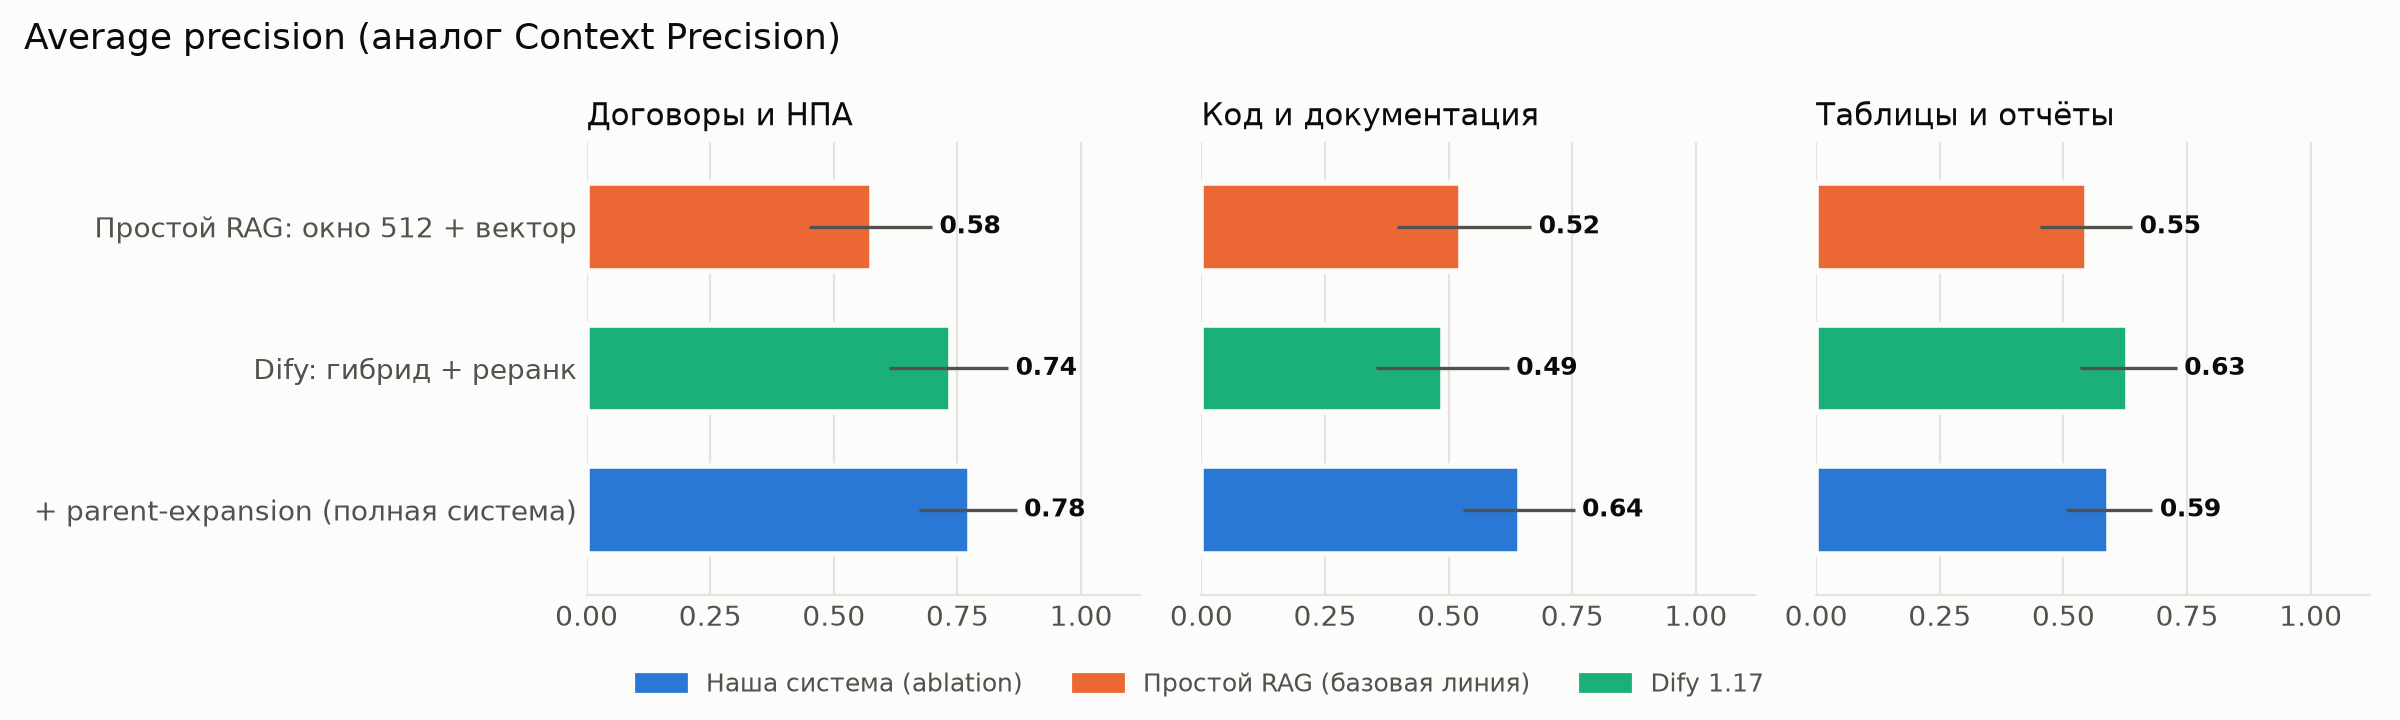
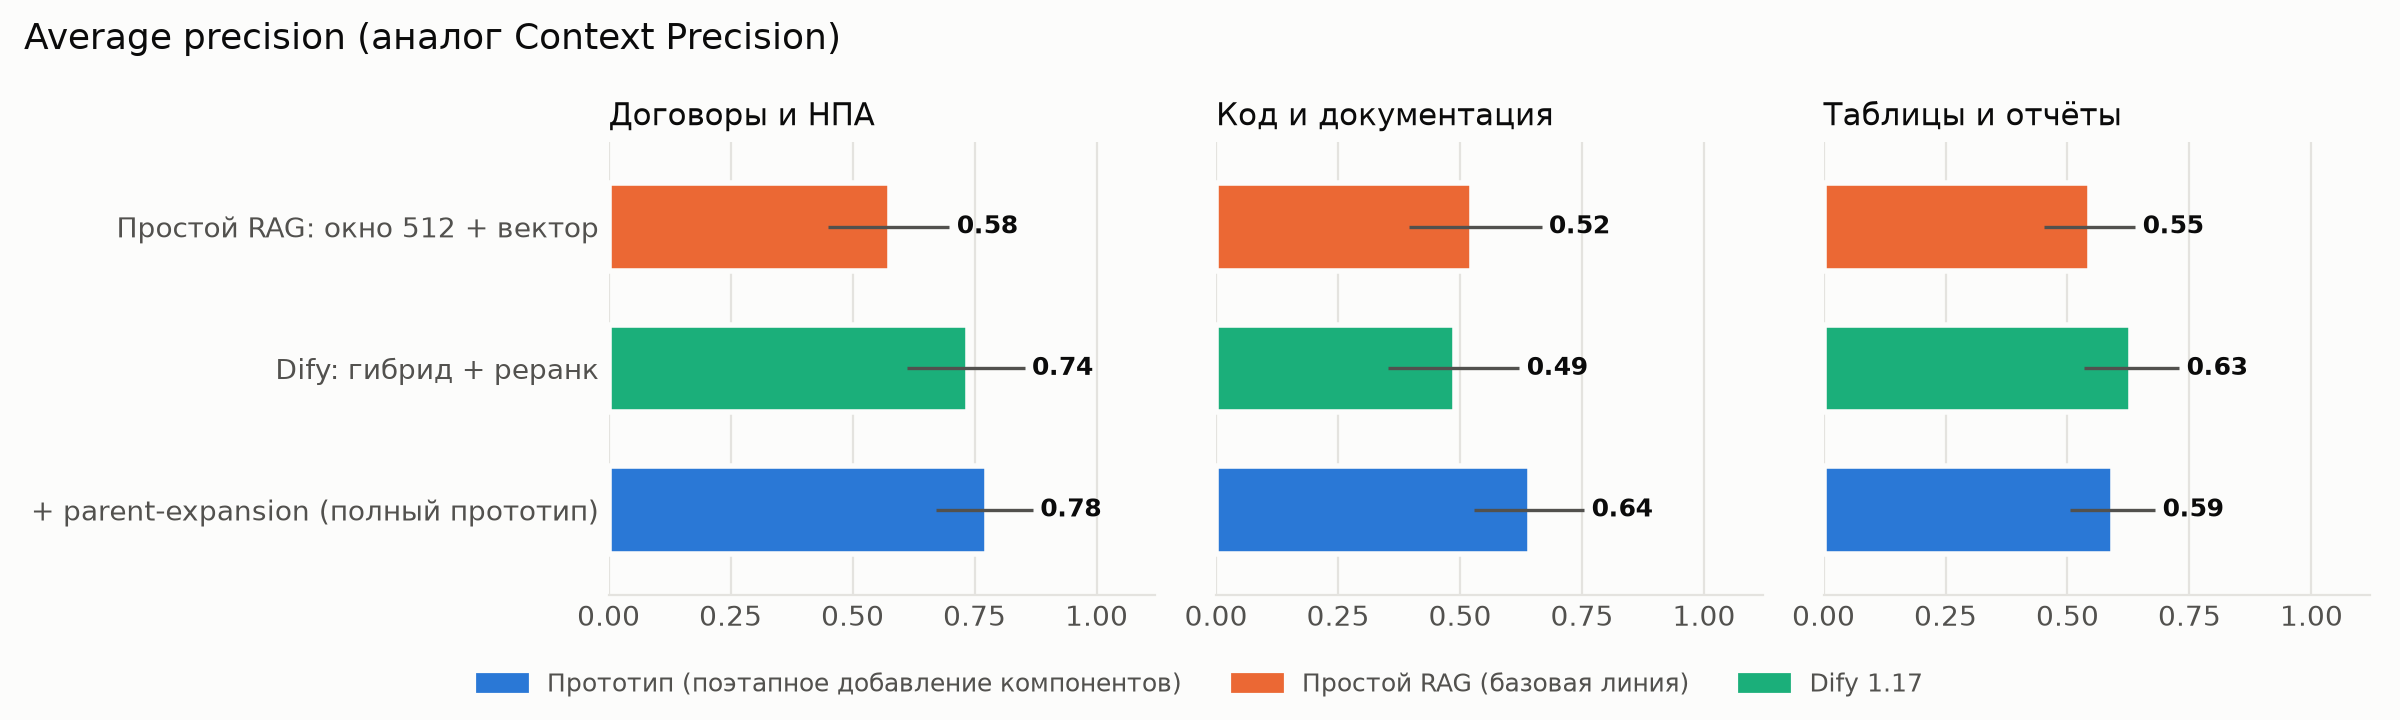
Rename system labels to 'Прототип'; drop unfair Dify bars from full-set figures

diff --git a/benchmarks/plots.py b/benchmarks/plots.py
@@ -32,10 +32,10 @@ CONFIGS: list[tuple[str, str, str, str]] = [
     ('naive', 'hybrid', 'Окно 512 + вектор + FTS', 'naive'),
     ('dify', 'dify_vector', 'Dify: вектор', 'dify'),
     ('dify', 'dify_hybrid_rerank', 'Dify: гибрид + реранк', 'dify'),
-    ('domain', 'vector', 'Наши чанкеры + вектор', 'ours'),
+    ('domain', 'vector', 'Прототип: чанкеры + вектор', 'ours'),
     ('domain', 'hybrid', '+ FTS (RRF)', 'ours'),
     ('domain', 'hybrid_rerank', '+ cross-encoder реранк', 'ours'),
-    ('domain', 'full', '+ parent-expansion (полная система)', 'ours'),
+    ('domain', 'full', '+ parent-expansion (полный прототип)', 'ours'),
 ]
 DOMAIN_TITLES = {
     'all': 'Все домены',
@@ -59,7 +59,7 @@ KEY_CONFIGS = {
     ('domain', 'full'),
 }
 LEGEND = {
-    'ours': 'Наша система (ablation)',
+    'ours': 'Прототип (поэтапное добавление компонентов)',
     'naive': 'Простой RAG (базовая линия)',
     'dify': 'Dify 1.17',
 }
@@ -196,10 +196,16 @@ def figure_domains(data: dict[tuple[str, str, str, str], Row], metric: str, path
 
 
 def main(results_dir: Path = RESULTS_DIR) -> None:
-    """Строит все графики по сводкам из `results_dir` в `results_dir/figures`."""
+    """Строит все графики по сводкам из `results_dir` в `results_dir/figures`.
+
+    На полном наборе (`results/`) Dify не показывается: его индекс неполон (179 из 206
+    документов) и бюджет контекста меньше, сравнение с ним — в `dify_subset/` и `equal_budget/`.
+    """
     figures = results_dir / 'figures'
     figures.mkdir(parents=True, exist_ok=True)
     data = load_summary(results_dir)
+    if results_dir == RESULTS_DIR:
+        data = {k: v for k, v in data.items() if k[0] != 'dify'}
     for metric in ('evidence_recall', 'mrr', 'ap'):
         figure_ablation(data, metric, figures / f'ablation_{metric}.png')
         figure_domains(data, metric, figures / f'domains_{metric}.png')
@@ -219,8 +225,8 @@ def figure_budget(csv_path: Path, path: Path, domain: str = 'all') -> None:
     series = [
         ('Простой RAG', COLORS['naive'], '-'),
         ('Dify top-24: гибрид + реранк', COLORS['dify'], '-'),
-        ('Наша: чанкеры + гибрид + реранк', COLORS['ours'], '--'),
-        ('Наша: полная (parent-expansion)', COLORS['ours'], '-'),
+        ('Прототип: чанкеры + гибрид + реранк', COLORS['ours'], '--'),
+        ('Полный прототип (parent-expansion)', COLORS['ours'], '-'),
     ]
     rows: dict[str, list[tuple[int, float, float, float]]] = {}
     with csv_path.open(encoding='utf-8') as f:

diff --git a/benchmarks/paired_diff.py b/benchmarks/paired_diff.py
@@ -23,8 +23,8 @@ ITERATIONS = 5000
 # (прогон, конфигурация, подпись): наши конфигурации против лучшей конфигурации Dify.
 BASELINE = ('dify_top24', 'dify_hybrid_rerank', 'Dify top-24: гибрид + реранк')
 CANDIDATES = (
-    ('domain', 'hybrid_rerank', 'Наша: чанкеры + гибрид + реранк'),
-    ('domain', 'full', 'Наша: полная (parent-expansion)'),
+    ('domain', 'hybrid_rerank', 'Прототип: чанкеры + гибрид + реранк'),
+    ('domain', 'full', 'Полный прототип (parent-expansion)'),
     ('naive', 'vector', 'Простой RAG'),
 )
 

diff --git a/benchmarks/budget_recall.py b/benchmarks/budget_recall.py
@@ -28,8 +28,8 @@ SYSTEMS = (
     ('dify', 'dify_hybrid_rerank', 'Dify: гибрид + реранк'),
     ('dify_top24', 'dify_vector', 'Dify top-24: вектор'),
     ('dify_top24', 'dify_hybrid_rerank', 'Dify top-24: гибрид + реранк'),
-    ('domain', 'hybrid_rerank', 'Наша: чанкеры + гибрид + реранк'),
-    ('domain', 'full', 'Наша: полная (parent-expansion)'),
+    ('domain', 'hybrid_rerank', 'Прототип: чанкеры + гибрид + реранк'),
+    ('domain', 'full', 'Полный прототип (parent-expansion)'),
 )
 
 

diff --git a/benchmarks/results/equal_budget/budget_recall.md b/benchmarks/results/equal_budget/budget_recall.md
@@ -11,8 +11,8 @@
 | Dify: гибрид + реранк | 0.665 [0.60–0.73] | 0.716 [0.65–0.78] | 0.730 [0.66–0.79] | 0.730 [0.66–0.79] | 0.730 [0.66–0.79] |
 | Dify top-24: вектор | 0.600 [0.53–0.67] | 0.712 [0.64–0.78] | 0.761 [0.69–0.82] | 0.793 [0.73–0.85] | 0.807 [0.75–0.86] |
 | Dify top-24: гибрид + реранк | 0.680 [0.61–0.75] | 0.762 [0.70–0.82] | 0.804 [0.74–0.86] | 0.825 [0.77–0.88] | 0.840 [0.78–0.89] |
-| Наша: чанкеры + гибрид + реранк | 0.568 [0.49–0.65] | 0.734 [0.67–0.80] | 0.793 [0.73–0.85] | 0.846 [0.79–0.90] | 0.846 [0.79–0.90] |
-| Наша: полная (parent-expansion) | 0.466 [0.39–0.54] | 0.660 [0.58–0.73] | 0.751 [0.68–0.82] | 0.839 [0.78–0.89] | 0.885 [0.83–0.93] |
+| Прототип: чанкеры + гибрид + реранк | 0.568 [0.49–0.65] | 0.734 [0.67–0.80] | 0.793 [0.73–0.85] | 0.846 [0.79–0.90] | 0.846 [0.79–0.90] |
+| Полный прототип (parent-expansion) | 0.466 [0.39–0.54] | 0.660 [0.58–0.73] | 0.751 [0.68–0.82] | 0.839 [0.78–0.89] | 0.885 [0.83–0.93] |
 
 ## contracts
 
@@ -23,8 +23,8 @@
 | Dify: гибрид + реранк | 0.750 [0.62–0.87] | 0.750 [0.62–0.87] | 0.750 [0.62–0.87] | 0.750 [0.62–0.87] | 0.750 [0.62–0.87] |
 | Dify top-24: вектор | 0.669 [0.53–0.79] | 0.797 [0.67–0.90] | 0.843 [0.73–0.94] | 0.843 [0.73–0.94] | 0.843 [0.73–0.94] |
 | Dify top-24: гибрид + реранк | 0.785 [0.66–0.89] | 0.843 [0.74–0.93] | 0.866 [0.76–0.95] | 0.866 [0.76–0.95] | 0.866 [0.76–0.95] |
-| Наша: чанкеры + гибрид + реранк | 0.674 [0.55–0.79] | 0.791 [0.67–0.90] | 0.849 [0.74–0.94] | 0.884 [0.79–0.97] | 0.884 [0.79–0.97] |
-| Наша: полная (parent-expansion) | 0.395 [0.27–0.52] | 0.593 [0.45–0.73] | 0.767 [0.64–0.87] | 0.930 [0.84–1.00] | 0.953 [0.88–1.00] |
+| Прототип: чанкеры + гибрид + реранк | 0.674 [0.55–0.79] | 0.791 [0.67–0.90] | 0.849 [0.74–0.94] | 0.884 [0.79–0.97] | 0.884 [0.79–0.97] |
+| Полный прототип (parent-expansion) | 0.395 [0.27–0.52] | 0.593 [0.45–0.73] | 0.767 [0.64–0.87] | 0.930 [0.84–1.00] | 0.953 [0.88–1.00] |
 
 ## code
 
@@ -35,8 +35,8 @@
 | Dify: гибрид + реранк | 0.567 [0.41–0.72] | 0.662 [0.52–0.80] | 0.662 [0.52–0.80] | 0.662 [0.52–0.80] | 0.662 [0.52–0.80] |
 | Dify top-24: вектор | 0.571 [0.43–0.73] | 0.676 [0.53–0.81] | 0.743 [0.61–0.87] | 0.743 [0.61–0.87] | 0.743 [0.61–0.87] |
 | Dify top-24: гибрид + реранк | 0.557 [0.42–0.70] | 0.705 [0.58–0.83] | 0.748 [0.62–0.87] | 0.748 [0.62–0.87] | 0.748 [0.62–0.87] |
-| Наша: чанкеры + гибрид + реранк | 0.652 [0.49–0.80] | 0.762 [0.64–0.88] | 0.814 [0.69–0.93] | 0.829 [0.70–0.94] | 0.829 [0.70–0.94] |
-| Наша: полная (parent-expansion) | 0.581 [0.42–0.73] | 0.690 [0.55–0.83] | 0.743 [0.60–0.87] | 0.771 [0.64–0.89] | 0.900 [0.80–0.99] |
+| Прототип: чанкеры + гибрид + реранк | 0.652 [0.49–0.80] | 0.762 [0.64–0.88] | 0.814 [0.69–0.93] | 0.829 [0.70–0.94] | 0.829 [0.70–0.94] |
+| Полный прототип (parent-expansion) | 0.581 [0.42–0.73] | 0.690 [0.55–0.83] | 0.743 [0.60–0.87] | 0.771 [0.64–0.89] | 0.900 [0.80–0.99] |
 
 ## tables
 
@@ -47,5 +47,5 @@
 | Dify: гибрид + реранк | 0.661 [0.56–0.76] | 0.723 [0.62–0.82] | 0.755 [0.66–0.85] | 0.755 [0.66–0.85] | 0.755 [0.66–0.85] |
 | Dify top-24: вектор | 0.570 [0.46–0.67] | 0.674 [0.56–0.78] | 0.716 [0.61–0.82] | 0.786 [0.69–0.88] | 0.817 [0.72–0.90] |
 | Dify top-24: гибрид + реранк | 0.677 [0.57–0.78] | 0.739 [0.64–0.84] | 0.794 [0.70–0.88] | 0.841 [0.76–0.92] | 0.872 [0.80–0.94] |
-| Наша: чанкеры + гибрид + реранк | 0.451 [0.34–0.57] | 0.681 [0.57–0.79] | 0.744 [0.64–0.84] | 0.830 [0.74–0.91] | 0.830 [0.74–0.91] |
-| Наша: полная (parent-expansion) | 0.451 [0.34–0.57] | 0.689 [0.59–0.79] | 0.744 [0.64–0.84] | 0.814 [0.72–0.90] | 0.830 [0.74–0.91] |
+| Прототип: чанкеры + гибрид + реранк | 0.451 [0.34–0.57] | 0.681 [0.57–0.79] | 0.744 [0.64–0.84] | 0.830 [0.74–0.91] | 0.830 [0.74–0.91] |
+| Полный прототип (parent-expansion) | 0.451 [0.34–0.57] | 0.689 [0.59–0.79] | 0.744 [0.64–0.84] | 0.814 [0.72–0.90] | 0.830 [0.74–0.91] |

diff --git a/benchmarks/results/dify_subset/budget_recall.md b/benchmarks/results/dify_subset/budget_recall.md
@@ -9,8 +9,8 @@
 | Простой RAG | 0.374 [0.30–0.45] | 0.552 [0.47–0.63] | 0.654 [0.58–0.73] | 0.773 [0.71–0.83] |
 | Dify: вектор | 0.583 [0.51–0.66] | 0.669 [0.60–0.74] | 0.682 [0.61–0.75] | 0.682 [0.61–0.75] |
 | Dify: гибрид + реранк | 0.665 [0.60–0.73] | 0.716 [0.65–0.78] | 0.730 [0.66–0.79] | 0.730 [0.66–0.79] |
-| Наша: чанкеры + гибрид + реранк | 0.568 [0.49–0.65] | 0.734 [0.67–0.80] | 0.793 [0.73–0.85] | 0.846 [0.79–0.90] |
-| Наша: полная (parent-expansion) | 0.466 [0.39–0.54] | 0.660 [0.58–0.73] | 0.751 [0.68–0.82] | 0.839 [0.78–0.89] |
+| Прототип: чанкеры + гибрид + реранк | 0.568 [0.49–0.65] | 0.734 [0.67–0.80] | 0.793 [0.73–0.85] | 0.846 [0.79–0.90] |
+| Полный прототип (parent-expansion) | 0.466 [0.39–0.54] | 0.660 [0.58–0.73] | 0.751 [0.68–0.82] | 0.839 [0.78–0.89] |
 
 ## contracts
 
@@ -19,8 +19,8 @@
 | Простой RAG | 0.430 [0.29–0.57] | 0.547 [0.40–0.69] | 0.616 [0.47–0.76] | 0.802 [0.69–0.91] |
 | Dify: вектор | 0.669 [0.53–0.79] | 0.738 [0.60–0.86] | 0.738 [0.60–0.86] | 0.738 [0.60–0.86] |
 | Dify: гибрид + реранк | 0.750 [0.62–0.87] | 0.750 [0.62–0.87] | 0.750 [0.62–0.87] | 0.750 [0.62–0.87] |
-| Наша: чанкеры + гибрид + реранк | 0.674 [0.55–0.79] | 0.791 [0.67–0.90] | 0.849 [0.74–0.94] | 0.884 [0.79–0.97] |
-| Наша: полная (parent-expansion) | 0.395 [0.27–0.52] | 0.593 [0.45–0.73] | 0.767 [0.64–0.87] | 0.930 [0.84–1.00] |
+| Прототип: чанкеры + гибрид + реранк | 0.674 [0.55–0.79] | 0.791 [0.67–0.90] | 0.849 [0.74–0.94] | 0.884 [0.79–0.97] |
+| Полный прототип (parent-expansion) | 0.395 [0.27–0.52] | 0.593 [0.45–0.73] | 0.767 [0.64–0.87] | 0.930 [0.84–1.00] |
 
 ## code
 
@@ -29,8 +29,8 @@
 | Простой RAG | 0.338 [0.20–0.50] | 0.514 [0.36–0.67] | 0.629 [0.49–0.77] | 0.729 [0.59–0.86] |
 | Dify: вектор | 0.571 [0.43–0.73] | 0.648 [0.50–0.79] | 0.648 [0.50–0.79] | 0.648 [0.50–0.79] |
 | Dify: гибрид + реранк | 0.567 [0.41–0.72] | 0.662 [0.52–0.80] | 0.662 [0.52–0.80] | 0.662 [0.52–0.80] |
-| Наша: чанкеры + гибрид + реранк | 0.652 [0.49–0.80] | 0.762 [0.64–0.88] | 0.814 [0.69–0.93] | 0.829 [0.70–0.94] |
-| Наша: полная (parent-expansion) | 0.581 [0.42–0.73] | 0.690 [0.55–0.83] | 0.743 [0.60–0.87] | 0.771 [0.64–0.89] |
+| Прототип: чанкеры + гибрид + реранк | 0.652 [0.49–0.80] | 0.762 [0.64–0.88] | 0.814 [0.69–0.93] | 0.829 [0.70–0.94] |
+| Полный прототип (parent-expansion) | 0.581 [0.42–0.73] | 0.690 [0.55–0.83] | 0.743 [0.60–0.87] | 0.771 [0.64–0.89] |
 
 ## tables
 
@@ -39,5 +39,5 @@
 | Простой RAG | 0.357 [0.25–0.47] | 0.576 [0.46–0.69] | 0.693 [0.58–0.80] | 0.779 [0.68–0.88] |
 | Dify: вектор | 0.531 [0.42–0.64] | 0.635 [0.52–0.74] | 0.664 [0.55–0.77] | 0.664 [0.55–0.77] |
 | Dify: гибрид + реранк | 0.661 [0.56–0.76] | 0.723 [0.62–0.82] | 0.755 [0.66–0.85] | 0.755 [0.66–0.85] |
-| Наша: чанкеры + гибрид + реранк | 0.451 [0.34–0.57] | 0.681 [0.57–0.79] | 0.744 [0.64–0.84] | 0.830 [0.74–0.91] |
-| Наша: полная (parent-expansion) | 0.451 [0.34–0.57] | 0.689 [0.59–0.79] | 0.744 [0.64–0.84] | 0.814 [0.72–0.90] |
+| Прототип: чанкеры + гибрид + реранк | 0.451 [0.34–0.57] | 0.681 [0.57–0.79] | 0.744 [0.64–0.84] | 0.830 [0.74–0.91] |
+| Полный прототип (parent-expansion) | 0.451 [0.34–0.57] | 0.689 [0.59–0.79] | 0.744 [0.64–0.84] | 0.814 [0.72–0.90] |

diff --git a/benchmarks/results/equal_budget/paired_diff.md b/benchmarks/results/equal_budget/paired_diff.md
@@ -2,7 +2,7 @@
 
 142 вопросов общего с Dify подмножества; разность = система − Dify по каждому вопросу, парный бутстреп (5000 выборок). P(>0) — доля выборок с положительной разностью: близко к 1 — система лучше, к 0 — хуже, около 0.5 — различия нет.
 
-## Наша: чанкеры + гибрид + реранк
+## Прототип: чанкеры + гибрид + реранк
 
 | Домен | 500 ток. | 1000 ток. | 2000 ток. | 4000 ток. | 8000 ток. |
 |---|---|---|---|---|---|
@@ -11,7 +11,7 @@
 | code | +0.095 [-0.06…+0.25], P(>0)=0.89 | +0.057 [-0.08…+0.20], P(>0)=0.77 | +0.067 [-0.06…+0.19], P(>0)=0.83 | +0.081 [-0.05…+0.20], P(>0)=0.88 | +0.081 [-0.05…+0.20], P(>0)=0.88 |
 | tables | -0.226 [-0.36…-0.10], P(>0)=0.00 | -0.058 [-0.17…+0.05], P(>0)=0.13 | -0.050 [-0.15…+0.05], P(>0)=0.16 | -0.011 [-0.12…+0.09], P(>0)=0.41 | -0.042 [-0.14…+0.05], P(>0)=0.19 |
 
-## Наша: полная (parent-expansion)
+## Полный прототип (parent-expansion)
 
 | Домен | 500 ток. | 1000 ток. | 2000 ток. | 4000 ток. | 8000 ток. |
 |---|---|---|---|---|---|
